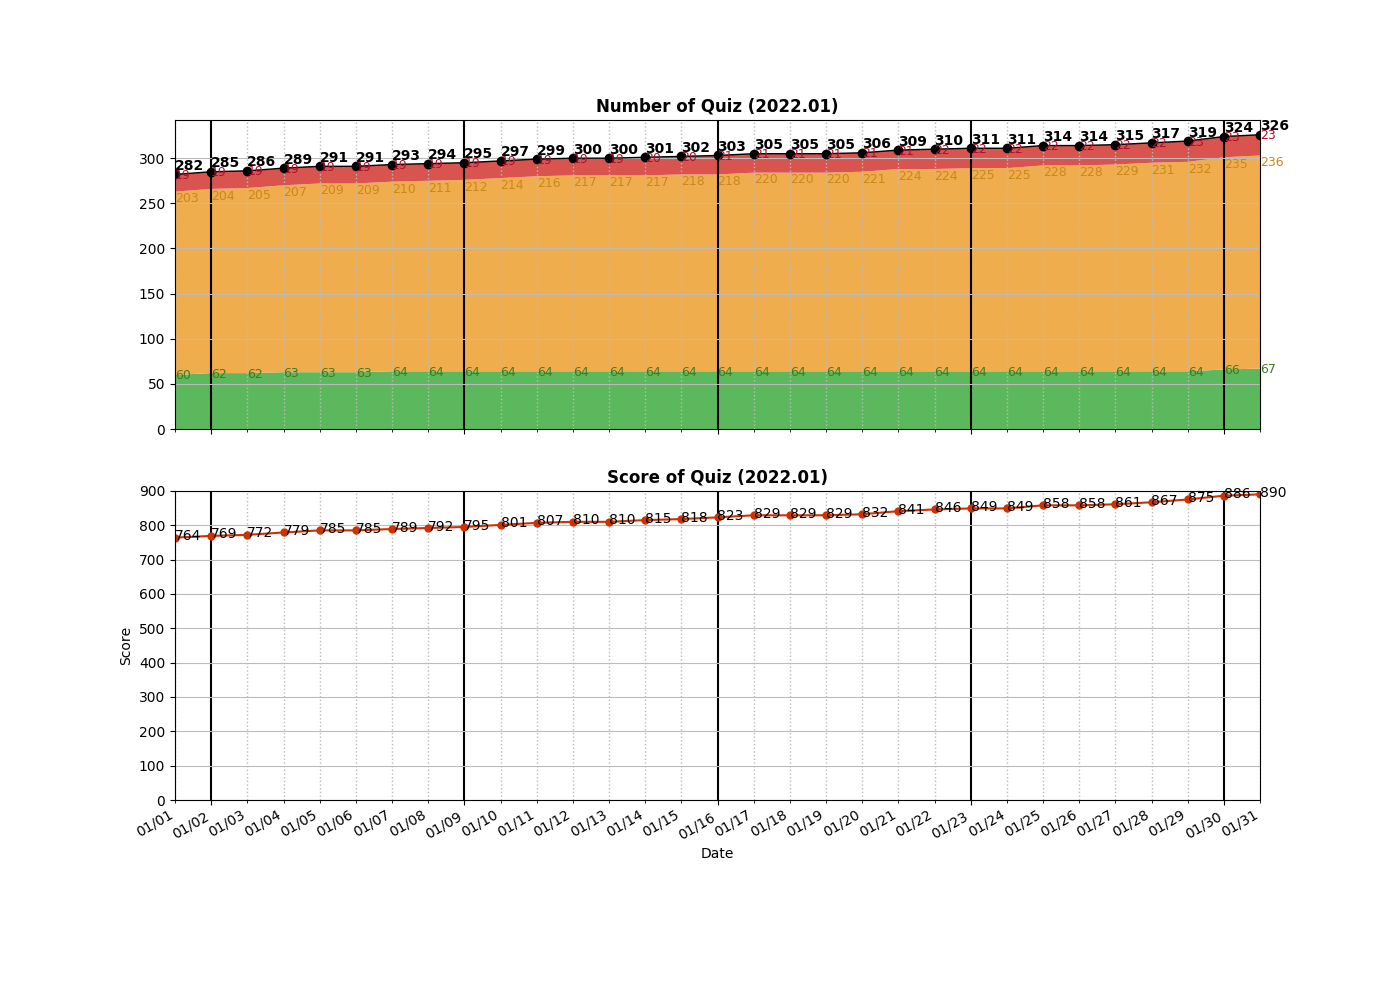
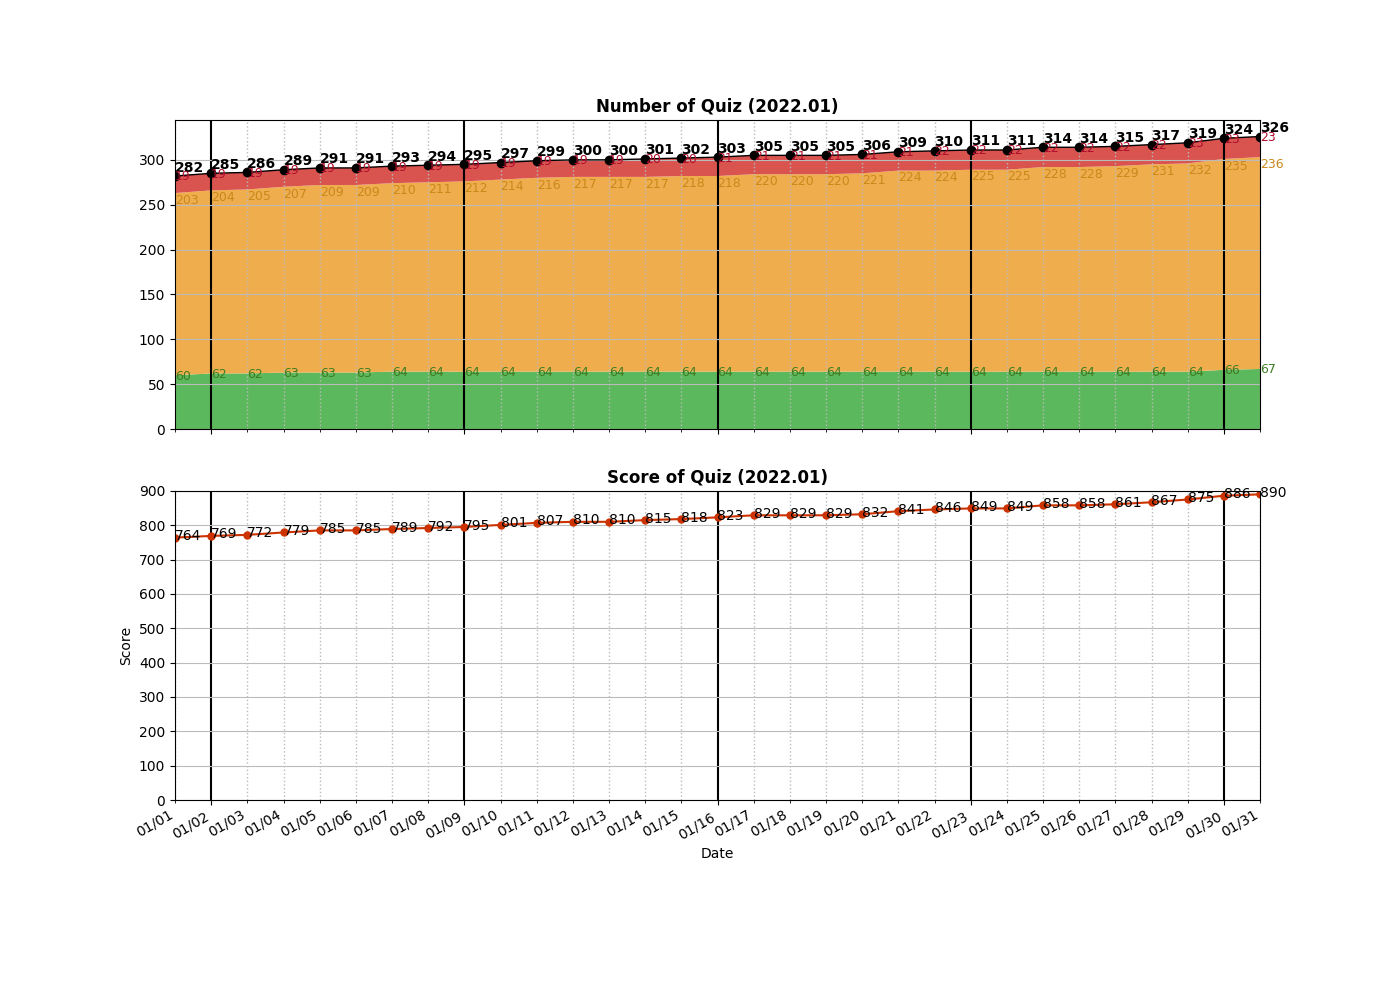
Added __1438__Longest Continuous Subarray With Absolute Diff Less Than or Equal to Limit.py

Changed region(s): [[0.0921, 0.124, 0.9214, 0.217]]

diff --git a/algo/Monotonic/__1438__Longest Continuous Subarray With Absolute Diff Less Than or Equal to Limit.py b/algo/Monotonic/__1438__Longest Continuous Subarray With Absolute Diff Less Than or Equal to Limit.py
@@ -1,0 +1,83 @@
+class Solution:
+    
+    # 2022/02/03
+    # Sliding window + two monotonic deque [O(n): 61%]
+    def longestSubarray(self, nums: List[int], limit: int) -> int:
+        print("Code3")
+        if not nums:
+            return 0
+        
+        self.maxdeque = collections.deque()
+        self.mindeque = collections.deque()
+        def diff():
+            return nums[self.maxdeque[0]] - nums[self.mindeque[0]]
+            
+        res = 0
+        left = 0
+        for right in range(len(nums)):
+            while self.maxdeque and nums[self.maxdeque[-1]] < nums[right]:
+                self.maxdeque.pop()
+            self.maxdeque.append(right)
+            
+            while self.mindeque and nums[self.mindeque[-1]] > nums[right]:
+                self.mindeque.pop()
+            self.mindeque.append(right)
+            
+            # while left <= right and diff() > limit:
+            if diff() > limit:  #NOT using while (lazy update)
+
+                if self.maxdeque and left == self.maxdeque[0]:
+                    self.maxdeque.popleft()
+                if self.mindeque and left == self.mindeque[0]:
+                    self.mindeque.popleft()
+                left += 1
+            #res = max(res, self.maxdeque[-1] - self.mindeque[0] + 1, self.mindeque[-1] - self.maxdeque[0] + 1)
+            res = len(nums) - left
+        return res
+    
+    # =============================================
+    
+    # 2022/02/03
+    # Sliding window + deque + max/min func [O(n2): TLE]
+    def longestSubarray2(self, nums: List[int], limit: int) -> int:
+        print("Code2")
+        if not nums:
+            return 0
+        
+        self.arr = collections.deque()
+        def diff():
+            return max(self.arr) - min(self.arr)
+        res = 0
+        left = 0
+        for right in range(len(nums)):
+            self.arr.append(nums[right])
+            while diff() > limit:
+                left += 1
+                self.arr.popleft()
+            res = max(res, right - left + 1)
+        return res
+    
+    # =============================================
+    
+    # 2022/02/03
+    # Sliding window + list + max/min func [O(n2): TLE]
+    def longestSubarray1(self, nums: List[int], limit: int) -> int:
+        print("Code1")
+        if not nums:
+            return 0
+        
+        self.arr = []
+        def diff():
+            return max(self.arr) - min(self.arr)
+        res = 0
+        left = 0
+        for right in range(len(nums)):
+            self.arr.append(nums[right])
+            while diff() > limit:
+                left += 1
+                self.arr.pop(0)
+            res = max(res, right - left + 1)
+        return res
+            
+            
+            

diff --git a/README.md b/README.md
@@ -174,7 +174,8 @@ algo
 │   ├── __0535__Encode and Decode TinyURL.py
 │   ├── __0705__Design HashSet.py
 │   ├── __1525__Number of Good Ways to Split a String.py
-│   └── __2007__Find Original Array From Doubled Array.py
+│   ├── __2007__Find Original Array From Doubled Array.py
+│   └── __2156__Find Substring With Given Hash Value.py
 ├── Heap
 │   ├── __0215__Kth Largest Element in an Array.py
 │   ├── __0263__Ugly Number.py
@@ -229,6 +230,7 @@ algo
 │   ├── __0739__Daily Temperatures.py
 │   ├── __0862__Shortest Subarray with Sum at Least K.py
 │   ├── __0975__Odd Even Jump.py
+│   ├── __1438__Longest Continuous Subarray With Absolute Diff Less Than or Equal to Limit.py
 │   ├── __1475__Final Prices With a Special Discount in a Shop.py
 │   └── __1762__Buildings With an Ocean View.py
 ├── Recursion
@@ -365,7 +367,7 @@ algo
     ├── Countries.py
     └── SwitchingArray.py
 
-26 directories, 338 files
+26 directories, 340 files
 
 =====================================
 ============= Local Repo ============
@@ -679,6 +681,7 @@ __1382__Balance a Binary Search Tree.py
 __1391__Check if There is a Valid Path in a Grid.py
 __1395__Count Number of Teams.py
 __1429__First Unique Number.py
+__1438__Longest Continuous Subarray With Absolute Diff Less Than or Equal to Limit.py
 __1448__Count Good Nodes in Binary Tree.py
 __1475__Final Prices With a Special Discount in a Shop.py
 __1525__Number of Good Ways to Split a String.py
@@ -696,8 +699,9 @@ __2008__Maximum Earnings From Taxi.py
 __2093__Minimum Cost to Reach City With Discounts.py
 __2154__Keep Multiplying Found Values by Two.py
 __2155__All Divisions With the Highest Score of a Binary Array.py
+__2156__Find Substring With Given Hash Value.py
 =====================================
-Num of Python Practice:  326
+Num of Python Practice:  328
 
 
 =====================================
@@ -1012,6 +1016,7 @@ Num of Python Practice:  326
  1391 Check if There is a Valid Path in a Grid
  1395 Count Number of Teams
  1429 First Unique Number
+ 1438 Longest Continuous Subarray With Absolute Diff Less Than or Equal to Limit
  1448 Count Good Nodes in Binary Tree
  1475 Final Prices With a Special Discount in a Shop
  1525 Number of Good Ways to Split a String
@@ -1029,12 +1034,13 @@ Num of Python Practice:  326
  2093 Minimum Cost to Reach City With Discounts
  2154 Keep Multiplying Found Values by Two
  2155 All Divisions With the Highest Score of a Binary Array
+ 2156 Find Substring With Given Hash Value
 =====================================
 Solved / Total (Easy)  :   67 /  544
-Solved / Total (Medium):  236 / 1151
-Solved / Total (Hard)  :   23 /  462
-Solved / Total (All)   :  326 / 2157
-Total Score            :  890
+Solved / Total (Medium):  238 / 1151
+Solved / Total (Hard)  :   23 /  463
+Solved / Total (All)   :  328 / 2158
+Total Score            :  896
 =====================================
 
 ```
